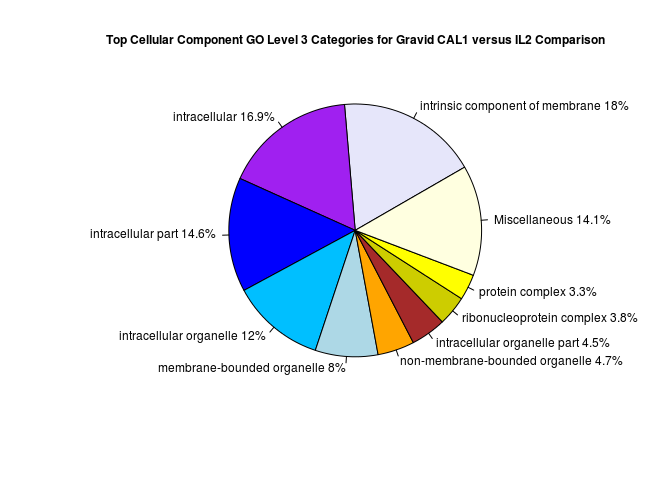
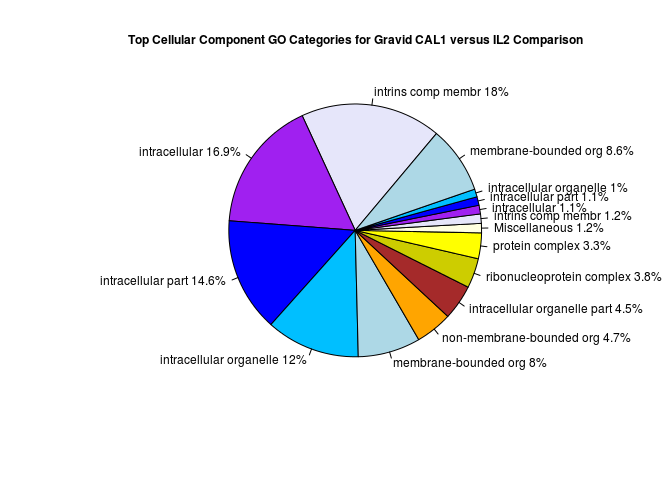
added a few extra terms to each pie chart

diff --git a/Culex_GO_Figs_09072018.md b/Culex_GO_Figs_09072018.md
@@ -11,35 +11,35 @@ Plots for Gene Ontology Classification.
 ``` r
 setwd("~/Desktop/CulexRNAseq")
 
-#Getting the top 9 MF categories
+#Getting the top 14 MF categories
 DGC_MF_grVpa <- read.table("./data/GO_level3Dist_data_analysis_09102018/gravidVparous/gravidVparous_GODist_level3_first3colsMF.txt", sep = "\t", header = T)
 DGC_MF_paVma <- read.table("./data/GO_level3Dist_data_analysis_09102018/parousVmales/parousVmales_GODist_level3_first3cols_MF.txt", sep = "\t", header = T)
 DGC_MF_paVpip <- read.table("./data/GO_level3Dist_data_analysis_09102018/parousVpipiens/parousVpipiens_GODist_level3_first3cols_MF.txt", sep = "\t", header = T)
 DGC_MF_grVpip <- read.table("./data/GO_level3Dist_data_analysis_09102018/gravidVpipiens/gravidVpipiens_GODist_level3_first3cols_MF.txt", sep = "\t", header = T)
 
-top_nine_MF <- list(DGC_MF_grVpa[c(1:9),3], DGC_MF_paVma[c(1:9),3], DGC_MF_paVpip[c(1:9),3], DGC_MF_grVpip[c(1:9),3])
+top_14_MF <- list(DGC_MF_grVpa[c(1:14),3], DGC_MF_paVma[c(1:14),3], DGC_MF_paVpip[c(1:14),3], DGC_MF_grVpip[c(1:14),3])
 
 tot_data_MF <- list(DGC_MF_grVpa[c(1:nrow(DGC_MF_grVpa)),3], DGC_MF_paVma[c(1:nrow(DGC_MF_paVma)),3], DGC_MF_paVpip[c(1:nrow(DGC_MF_paVpip)),3], DGC_MF_grVpip[c(1:nrow(DGC_MF_grVpip)),3])
 
 
-#Getting the top 9 BP categories
+#Getting the top 14 BP categories
 DGC_BP_grVpa <- read.table("./data/GO_level3Dist_data_analysis_09102018/gravidVparous/gravidVparous_GODist_level3_first3cols_BP.txt", sep = "\t", header = T)
 DGC_BP_paVma <- read.table("./data/GO_level3Dist_data_analysis_09102018/parousVmales/parousVmales_GODist_level3_first3cols_BP.txt", sep = "\t", header = T)
 DGC_BP_paVpip <- read.table("./data/GO_level3Dist_data_analysis_09102018/parousVpipiens/parousVpipiens_GODist_level3_first3cols_BP.txt", sep = "\t", header = T)
 DGC_BP_grVpip <- read.table("./data/GO_level3Dist_data_analysis_09102018/gravidVpipiens/gravidVpipiens_GODist_level3_first3cols_BP.txt", sep = "\t", header = T)
 
-top_nine_BP <- list(DGC_BP_grVpa[c(1:9),3], DGC_BP_paVma[c(1:9),3], DGC_BP_paVpip[c(1:9),3], DGC_BP_grVpip[c(1:9),3])
+top_14_BP <- list(DGC_BP_grVpa[c(1:14),3], DGC_BP_paVma[c(1:14),3], DGC_BP_paVpip[c(1:14),3], DGC_BP_grVpip[c(1:14),3])
 
 tot_data_BP <- list(DGC_BP_grVpa[c(1:nrow(DGC_BP_grVpa)),3], DGC_BP_paVma[c(1:nrow(DGC_BP_paVma)),3], DGC_BP_paVpip[c(1:nrow(DGC_BP_paVpip)),3], DGC_BP_grVpip[c(1:nrow(DGC_BP_grVpip)),3])
 
 
-#Getting the top 9 CC categories
+#Getting the top 14 CC categories
 DGC_CC_grVpa <- read.table("./data/GO_level3Dist_data_analysis_09102018/gravidVparous/gravidVparous_GODist_level3_first3cols_CC.txt", sep = "\t", header = T)
 DGC_CC_paVma <- read.table("./data/GO_level3Dist_data_analysis_09102018/parousVmales/parousVmales_GODist_level3_first3cols_CC.txt", sep = "\t", header = T)
 DGC_CC_paVpip <- read.table("./data/GO_level3Dist_data_analysis_09102018/parousVpipiens/parousVpipiens_GODist_level3_first3cols_CC.txt", sep = "\t", header = T)
 DGC_CC_grVpip <- read.table("./data/GO_level3Dist_data_analysis_09102018/gravidVpipiens/gravidVpipiens_GODist_level3_first3cols_CC.txt", sep = "\t", header = T)
 
-top_nine_CC <- list(DGC_CC_grVpa[c(1:9),3], DGC_CC_paVma[c(1:9),3], DGC_CC_paVpip[c(1:9),3], DGC_CC_grVpip[c(1:9),3])
+top_14_CC <- list(DGC_CC_grVpa[c(1:14),3], DGC_CC_paVma[c(1:14),3], DGC_CC_paVpip[c(1:14),3], DGC_CC_grVpip[c(1:14),3])
 
 tot_data_CC <- list(DGC_CC_grVpa[c(1:nrow(DGC_CC_grVpa)),3], DGC_CC_paVma[c(1:nrow(DGC_CC_paVma)),3], DGC_CC_paVpip[c(1:nrow(DGC_CC_paVpip)),3], DGC_CC_grVpip[c(1:nrow(DGC_CC_grVpip)),3])
 ```
@@ -48,10 +48,10 @@ tot_data_CC <- list(DGC_CC_grVpa[c(1:nrow(DGC_CC_grVpa)),3], DGC_CC_paVma[c(1:nr
 
 ``` r
 tot_MF <- lapply(tot_data_MF, sum)
-inv_misc_cat_MF <- lapply(top_nine_MF, sum)
+inv_misc_cat_MF <- lapply(top_14_MF, sum)
 misc_cat_MF <- (unlist(tot_MF)) - (unlist(inv_misc_cat_MF))
 
-data2_MF <- as.data.frame(top_nine_MF, col.names = c("DGC_MF_grVpa", "DGC_MF_paVma", "DGC_MF_paVpip", "DGC_MF_grVpip"))
+data2_MF <- as.data.frame(top_14_MF, col.names = c("DGC_MF_grVpa", "DGC_MF_paVma", "DGC_MF_paVpip", "DGC_MF_grVpip"))
 
 Updata_MF <- rbind(data2_MF, misc_cat_MF)
 
@@ -63,10 +63,10 @@ Rounded_Percentages_MF <- round(Percentages_MF, 1)
 
 ``` r
 tot_BP <- lapply(tot_data_BP, sum)
-inv_misc_cat_BP <- lapply(top_nine_BP, sum)
+inv_misc_cat_BP <- lapply(top_14_BP, sum)
 misc_cat_BP <- (unlist(tot_BP)) - (unlist(inv_misc_cat_BP))
 
-data2_BP <- as.data.frame(top_nine_BP, col.names = c("DGC_BP_grVpa", "DGC_BP_paVma", "DGC_BP_paVpip", "DGC_BP_grVpip"))
+data2_BP <- as.data.frame(top_14_BP, col.names = c("DGC_BP_grVpa", "DGC_BP_paVma", "DGC_BP_paVpip", "DGC_BP_grVpip"))
 
 Updata_BP <- rbind(data2_BP, misc_cat_BP)
 
@@ -78,10 +78,10 @@ Rounded_Percentages_BP <- round(Percentages_BP, 1)
 
 ``` r
 tot_CC <- lapply(tot_data_CC, sum)
-inv_misc_cat_CC <- lapply(top_nine_CC, sum)
+inv_misc_cat_CC <- lapply(top_14_CC, sum)
 misc_cat_CC <- (unlist(tot_CC)) - (unlist(inv_misc_cat_CC))
 
-data2_CC <- as.data.frame(top_nine_CC, col.names = c("DGC_CC_grVpa", "DGC_CC_paVma", "DGC_CC_paVpip", "DGC_CC_grVpip"))
+data2_CC <- as.data.frame(top_14_CC, col.names = c("DGC_CC_grVpa", "DGC_CC_paVma", "DGC_CC_paVpip", "DGC_CC_grVpip"))
 
 Updata_CC <- rbind(data2_CC, misc_cat_CC)
 
@@ -97,44 +97,56 @@ Rounded_Percentages_CC <- round(Percentages_CC, 1)
 
 ###### "serine-type endopeptidase activity", "ser-type endopep act"
 
+###### "guanyl-nucleotide exchange factor" = "guan-nuc ex factor"
+
+###### "substrate-specific transporter activity" = "sub-spec transport act"
+
 ``` r
-lbls <- c(as.character(DGC_MF_grVpa[c(1:9),2]), "Miscellaneous")
+lbls <- c(as.character(DGC_MF_grVpa[c(1:14),2]), "Miscellaneous")
 lbls <- gsub("structural constituent of ribosome", "struc const ribosome", lbls)
+lbls <- gsub("guanyl-nucleotide exchange factor", "guan-nuc ex factor", lbls)
+lbls <- gsub("substrate-specific transporter activity", "sub-spec transport act", lbls)
 lbls <- paste(lbls, Rounded_Percentages_MF$DGC_MF_grVpa) # add percents to labels
 lbls <- paste(lbls,"%",sep="") # ad % to labels 
-grVpa_pie_MF <- pie(Rounded_Percentages_MF$DGC_MF_grVpa, labels =lbls, main = "Top Molecular Function GO Level 3 Categories for Gravid CAL1 versus Parous CAL1 Comparison", radius = 0.9, col = rainbow(length(lbls)), cex = 0.75, cex.main = 0.75, tck=.2, init.angle = 30)
+grVpa_pie_MF <- pie(Rounded_Percentages_MF$DGC_MF_grVpa, labels =lbls, main = "Top Molecular Function GO Categories for Gravid CAL1 versus Parous CAL1 Comparison", radius = 0.9, col = rainbow(length(lbls)), cex = 0.75, cex.main = 0.75, tck=.2, init.angle = 30)
 ```
 
 ![](Culex_GO_Figs_09072018_files/figure-markdown_github/MF%20GO%20Figs-1.png)
 
 ``` r
-lbls <- c(as.character(DGC_MF_paVma[c(1:9),2]), "Miscellaneous")
+lbls <- c(as.character(DGC_MF_paVma[c(1:14),2]), "Miscellaneous")
 lbls <- gsub("structural constituent of ribosome", "struc const ribosome", lbls)
+lbls <- gsub("guanyl-nucleotide exchange factor", "guan-nuc ex factor", lbls)
+lbls <- gsub("substrate-specific transporter activity", "sub-spec transport act", lbls)
 lbls <- paste(lbls, Rounded_Percentages_MF$DGC_MF_paVma) 
 lbls <- paste(lbls,"%",sep="") 
-paVma_pie_MF <- pie(Rounded_Percentages_MF$DGC_MF_paVma, labels =lbls, main = "Top Molecular Function GO Level 3 Categories for Parous CAL1 versus Male CAL1 Comparison", radius = 0.9, col = rainbow(length(lbls)), cex = 0.75, cex.main = 0.75, tck=.2, init.angle = 30)
+paVma_pie_MF <- pie(Rounded_Percentages_MF$DGC_MF_paVma, labels =lbls, main = "Top Molecular Function GO Categories for Parous CAL1 versus Male CAL1 Comparison", radius = 0.9, col = rainbow(length(lbls)), cex = 0.75, cex.main = 0.75, tck=.2, init.angle = 30)
 ```
 
 ![](Culex_GO_Figs_09072018_files/figure-markdown_github/MF%20GO%20Figs-2.png)
 
 ``` r
-lbls <- c(as.character(DGC_MF_paVpip[c(1:9),2]), "Miscellaneous")
+lbls <- c(as.character(DGC_MF_paVpip[c(1:14),2]), "Miscellaneous")
 lbls <- gsub("structural constituent of ribosome", "struc const ribosome", lbls)
 lbls <- gsub("serine-type endopeptidase activity", "ser-type endopep act", lbls)
+lbls <- gsub("guanyl-nucleotide exchange factor", "guan-nuc ex factor", lbls)
+lbls <- gsub("substrate-specific transporter activity", "sub-spec transport act", lbls)
 lbls <- paste(lbls, Rounded_Percentages_MF$DGC_MF_paVpip) 
 lbls <- paste(lbls,"%",sep="") 
-paVpip_pie_MF <- pie(Rounded_Percentages_MF$DGC_MF_paVpip, labels =lbls, main = "Top Molecular Function GO Level 3 Categories for Parous CAL1 versus IL2 Comparison", radius = 0.9, col = rainbow(length(lbls)), cex = 0.75, cex.main = 0.75, tck=.2, init.angle = 30)
+paVpip_pie_MF <- pie(Rounded_Percentages_MF$DGC_MF_paVpip, labels =lbls, main = "Top Molecular Function GO Categories for Parous CAL1 versus IL2 Comparison", radius = 0.9, col = rainbow(length(lbls)), cex = 0.75, cex.main = 0.75, tck=.2, init.angle = 30)
 ```
 
 ![](Culex_GO_Figs_09072018_files/figure-markdown_github/MF%20GO%20Figs-3.png)
 
 ``` r
-lbls <- c(as.character(DGC_MF_grVpip[c(1:9),2]), "Miscellaneous")
+lbls <- c(as.character(DGC_MF_grVpip[c(1:14),2]), "Miscellaneous")
 lbls <- gsub("structural constituent of ribosome", "struc const ribosome", lbls)
 lbls <- gsub("serine-type endopeptidase activity", "ser-type endopep act", lbls)
+lbls <- gsub("guanyl-nucleotide exchange factor", "guan-nuc ex factor", lbls)
+lbls <- gsub("substrate-specific transporter activity", "sub-spec transport act", lbls)
 lbls <- paste(lbls, Rounded_Percentages_MF$DGC_MF_grVpip) 
 lbls <- paste(lbls,"%",sep="") 
-grVpip_pie_MF <- pie(Rounded_Percentages_MF$DGC_MF_grVpip, labels =lbls, main = "Top Molecular Function GO Level 3 Categories for Gravid CAL1 versus IL2 Comparison", radius = 0.9, col = rainbow(length(lbls)), cex = 0.75, cex.main = 0.75, tck=.2, init.angle = 30)
+grVpip_pie_MF <- pie(Rounded_Percentages_MF$DGC_MF_grVpip, labels =lbls, main = "Top Molecular Function GO Categories for Gravid CAL1 versus IL2 Comparison", radius = 0.9, col = rainbow(length(lbls)), cex = 0.75, cex.main = 0.75, tck=.2, init.angle = 30)
 ```
 
 ![](Culex_GO_Figs_09072018_files/figure-markdown_github/MF%20GO%20Figs-4.png)
@@ -147,45 +159,57 @@ grVpip_pie_MF <- pie(Rounded_Percentages_MF$DGC_MF_grVpip, labels =lbls, main = 
 
 ###### "carbohydrate metabolic process" = "carb metabol proc"
 
+###### "establishment of localization" = "establish localization"
+
+###### "single-organism cellular process" = "single-org cell process"
+
 ``` r
-lbls <- c(as.character(DGC_BP_grVpa[c(1:9),2]), "Miscellaneous")
+lbls <- c(as.character(DGC_BP_grVpa[c(1:14),2]), "Miscellaneous")
 lbls <- gsub("regulation of transcription, DNA-templated", "reg transcript, DNA-temp", lbls)
+lbls <- gsub("establishment of localization", "establish localization", lbls)
+lbls <- gsub("single-organism cellular process", "single-org cell process", lbls)
 lbls <- paste(lbls, Rounded_Percentages_BP$DGC_BP_grVpa) # add percents to labels
 lbls <- paste(lbls,"%",sep="") # ad % to labels 
-grVpa_pie_BP <- pie(Rounded_Percentages_BP$DGC_BP_grVpa, labels =lbls, main = "Top Biological Process GO Level 3 Categories for Gravid CAL1 versus Parous CAL1 Comparison", radius = 0.9, cex = 0.75, cex.main = 0.75, tck=.2, init.angle = 30)
+grVpa_pie_BP <- pie(Rounded_Percentages_BP$DGC_BP_grVpa, labels =lbls, main = "Top Biological Process GO Categories for Gravid CAL1 versus Parous CAL1 Comparison", radius = 0.9, cex = 0.75, cex.main = 0.75, tck=.2, init.angle = 120)
 ```
 
 ![](Culex_GO_Figs_09072018_files/figure-markdown_github/BP%20GO%20Figs-1.png)
 
 ``` r
-lbls <- c(as.character(DGC_BP_paVma[c(1:9),2]), "Miscellaneous")
+lbls <- c(as.character(DGC_BP_paVma[c(1:14),2]), "Miscellaneous")
 lbls <- gsub("regulation of transcription, DNA-templated", "reg transcript, DNA-temp", lbls)
 lbls <- gsub("carbohydrate metabolic process", "carb metabol proc", lbls)
+lbls <- gsub("establishment of localization", "establish localization", lbls)
+lbls <- gsub("single-organism cellular process", "single-org cell process", lbls)
 lbls <- paste(lbls, Rounded_Percentages_BP$DGC_BP_paVma) 
 lbls <- paste(lbls,"%",sep="") 
-paVma_pie_BP <- pie(Rounded_Percentages_BP$DGC_BP_paVma, labels =lbls, main = "Top Biological Process GO Level 3 Categories for Parous CAL1 versus Male CAL1 Comparison", radius = 0.9, cex = 0.75, cex.main = 0.75, tck=.2, init.angle = 30)
+paVma_pie_BP <- pie(Rounded_Percentages_BP$DGC_BP_paVma, labels =lbls, main = "Top Biological Process GO Categories for Parous CAL1 versus Male CAL1 Comparison", radius = 0.9, cex = 0.75, cex.main = 0.75, tck=.2, init.angle = 120)
 ```
 
 ![](Culex_GO_Figs_09072018_files/figure-markdown_github/BP%20GO%20Figs-2.png)
 
 ``` r
-lbls <- c(as.character(DGC_BP_paVpip[c(1:9),2]), "Miscellaneous")
+lbls <- c(as.character(DGC_BP_paVpip[c(1:14),2]), "Miscellaneous")
 lbls <- gsub("regulation of transcription, DNA-templated", "reg transcript, DNA-temp", lbls)
 lbls <- gsub("carbohydrate metabolic process", "carb metabol proc", lbls)
+lbls <- gsub("establishment of localization", "establish localization", lbls)
+lbls <- gsub("single-organism cellular process", "single-org cell process", lbls)
 lbls <- paste(lbls, Rounded_Percentages_BP$DGC_BP_paVpip) 
 lbls <- paste(lbls,"%",sep="") 
-paVpip_pie_BP <- pie(Rounded_Percentages_BP$DGC_BP_paVpip, labels =lbls, main = "Top Biological Process GO Level 3 Categories for Parous CAL1 versus IL2 Comparison", radius = 0.9,  cex = 0.75, cex.main = 0.75, tck=.2, init.angle = 30)
+paVpip_pie_BP <- pie(Rounded_Percentages_BP$DGC_BP_paVpip, labels =lbls, main = "Top Biological Process GO Categories for Parous CAL1 versus IL2 Comparison", radius = 0.9,  cex = 0.75, cex.main = 0.75, tck=.2, init.angle = 120)
 ```
 
 ![](Culex_GO_Figs_09072018_files/figure-markdown_github/BP%20GO%20Figs-3.png)
 
 ``` r
-lbls <- c(as.character(DGC_BP_grVpip[c(1:9),2]), "Miscellaneous")
+lbls <- c(as.character(DGC_BP_grVpip[c(1:14),2]), "Miscellaneous")
 lbls <- gsub("regulation of transcription, DNA-templated", "reg transcript, DNA-temp", lbls)
 lbls <- gsub("carbohydrate metabolic process", "carb metabol proc", lbls)
+lbls <- gsub("establishment of localization", "establish localization", lbls)
+lbls <- gsub("single-organism cellular process", "single-org cell process", lbls)
 lbls <- paste(lbls, Rounded_Percentages_BP$DGC_BP_grVpip) 
 lbls <- paste(lbls,"%",sep="") 
-grVpip_pie_BP <- pie(Rounded_Percentages_BP$DGC_BP_grVpip, labels =lbls, main = "Top Biological Process GO Level 3 Categories for Gravid CAL1 versus IL2 Comparison", radius = 0.9, cex = 0.75, cex.main = 0.75, tck=.2, init.angle = 30)
+grVpip_pie_BP <- pie(Rounded_Percentages_BP$DGC_BP_grVpip, labels =lbls, main = "Top Biological Process GO Categories for Gravid CAL1 versus IL2 Comparison", radius = 0.9, cex = 0.75, cex.main = 0.75, tck=.2, init.angle = 120)
 ```
 
 ![](Culex_GO_Figs_09072018_files/figure-markdown_github/BP%20GO%20Figs-4.png)
@@ -198,14 +222,23 @@ grVpip_pie_BP <- pie(Rounded_Percentages_BP$DGC_BP_grVpip, labels =lbls, main = 
 
 ###### "carbohydrate metabolic process" = "carb metabol proc"
 
+###### "membrane-bounded organelle" = "membrane-bounded org"
+
+###### "non-membrane-bounded organelle" = "non-membrane-bounded org"
+
+###### "intrinsic component of membrane" = "intrins comp membr"
+
 ``` r
 col_schema <- c("lavender", "purple", "blue", "deepskyblue", "lightblue", "orange", "brown", "yellow3", "yellow", "lightyellow")
 
 lbls <- c(as.character(DGC_CC_grVpa[c(1:9),2]), "Miscellaneous")
 lbls <- gsub("regulation of transcription, DNA-templated", "reg transcript, DNA-temp", lbls)
+lbls <- gsub("membrane-bounded organelle", "membrane-bounded org", lbls)
+lbls <- gsub("non-membrane-bounded organelle", "non-membrane-bounded org", lbls)
+lbls <- gsub("intrinsic component of membrane", "intrins comp membr", lbls)
 lbls <- paste(lbls, Rounded_Percentages_CC$DGC_CC_grVpa) # add percents to labels
 lbls <- paste(lbls,"%",sep="") # ad % to labels 
-grVpa_pie_CC <- pie(Rounded_Percentages_CC$DGC_CC_grVpa, labels =lbls, main = "Top Cellular Component GO Level 3 Categories for Gravid CAL1 versus Parous CAL1 Comparison", radius = 0.9, cex = 0.75, cex.main = 0.75, tck=.2, init.angle = 20, col= col_schema)
+grVpa_pie_CC <- pie(Rounded_Percentages_CC$DGC_CC_grVpa, labels =lbls, main = "Top Cellular Component GO Categories for Gravid CAL1 versus Parous CAL1 Comparison", radius = 0.9, cex = 0.75, cex.main = 0.75, tck=.2, init.angle = 35, col= col_schema)
 ```
 
 ![](Culex_GO_Figs_09072018_files/figure-markdown_github/CC%20GO%20Figs-1.png)
@@ -213,10 +246,13 @@ grVpa_pie_CC <- pie(Rounded_Percentages_CC$DGC_CC_grVpa, labels =lbls, main = "T
 ``` r
 lbls <- c(as.character(DGC_CC_paVma[c(1:9),2]), "Miscellaneous")
 lbls <- gsub("regulation of transcription, DNA-templated", "reg transcript, DNA-temp", lbls)
+lbls <- gsub("membrane-bounded organelle", "membrane-bounded org", lbls)
+lbls <- gsub("non-membrane-bounded organelle", "non-membrane-bounded org", lbls)
 lbls <- gsub("carbohydrate metabolic process", "carb metabol proc", lbls)
+lbls <- gsub("intrinsic component of membrane", "intrins comp membr", lbls)
 lbls <- paste(lbls, Rounded_Percentages_CC$DGC_CC_paVma) 
 lbls <- paste(lbls,"%",sep="") 
-paVma_pie_CC <- pie(Rounded_Percentages_CC$DGC_CC_paVma, labels =lbls, main = "Top Cellular Component GO Level 3 Categories for Parous CAL1 versus Male CAL1 Comparison", radius = 0.9, cex = 0.75, cex.main = 0.75, tck=.2, init.angle = 20, col= col_schema)
+paVma_pie_CC <- pie(Rounded_Percentages_CC$DGC_CC_paVma, labels =lbls, main = "Top Cellular Component GO Categories for Parous CAL1 versus Male CAL1 Comparison", radius = 0.9, cex = 0.75, cex.main = 0.75, tck=.2, init.angle = 60, col= col_schema)
 ```
 
 ![](Culex_GO_Figs_09072018_files/figure-markdown_github/CC%20GO%20Figs-2.png)
@@ -224,10 +260,13 @@ paVma_pie_CC <- pie(Rounded_Percentages_CC$DGC_CC_paVma, labels =lbls, main = "T
 ``` r
 lbls <- c(as.character(DGC_CC_paVpip[c(1:9),2]), "Miscellaneous")
 lbls <- gsub("regulation of transcription, DNA-templated", "reg transcript, DNA-temp", lbls)
+lbls <- gsub("membrane-bounded organelle", "membrane-bounded org", lbls)
+lbls <- gsub("non-membrane-bounded organelle", "non-membrane-bounded org", lbls)
 lbls <- gsub("carbohydrate metabolic process", "carb metabol proc", lbls)
+lbls <- gsub("intrinsic component of membrane", "intrins comp membr", lbls)
 lbls <- paste(lbls, Rounded_Percentages_CC$DGC_CC_paVpip) 
 lbls <- paste(lbls,"%",sep="") 
-paVpip_pie_CC <- pie(Rounded_Percentages_CC$DGC_CC_paVpip, labels =lbls, main = "Top Cellular Component GO Level 3 Categories for Parous CAL1 versus IL2 Comparison", radius = 0.9,  cex = 0.75, cex.main = 0.75, tck=.2, init.angle = 30, col= col_schema)
+paVpip_pie_CC <- pie(Rounded_Percentages_CC$DGC_CC_paVpip, labels =lbls, main = "Top Cellular Component GO Categories for Parous CAL1 versus IL2 Comparison", radius = 0.9,  cex = 0.75, cex.main = 0.75, tck=.2, init.angle = 50, col= col_schema)
 ```
 
 ![](Culex_GO_Figs_09072018_files/figure-markdown_github/CC%20GO%20Figs-3.png)
@@ -235,10 +274,13 @@ paVpip_pie_CC <- pie(Rounded_Percentages_CC$DGC_CC_paVpip, labels =lbls, main = 
 ``` r
 lbls <- c(as.character(DGC_CC_grVpip[c(1:9),2]), "Miscellaneous")
 lbls <- gsub("regulation of transcription, DNA-templated", "reg transcript, DNA-temp", lbls)
+lbls <- gsub("membrane-bounded organelle", "membrane-bounded org", lbls)
+lbls <- gsub("non-membrane-bounded organelle", "non-membrane-bounded org", lbls)
 lbls <- gsub("carbohydrate metabolic process", "carb metabol proc", lbls)
+lbls <- gsub("intrinsic component of membrane", "intrins comp membr", lbls)
 lbls <- paste(lbls, Rounded_Percentages_CC$DGC_CC_grVpip) 
 lbls <- paste(lbls,"%",sep="") 
-grVpip_pie_CC <- pie(Rounded_Percentages_CC$DGC_CC_grVpip, labels =lbls, main = "Top Cellular Component GO Level 3 Categories for Gravid CAL1 versus IL2 Comparison", radius = 0.9, cex = 0.75, cex.main = 0.75, tck=.2, init.angle = 30, col= col_schema)
+grVpip_pie_CC <- pie(Rounded_Percentages_CC$DGC_CC_grVpip, labels =lbls, main = "Top Cellular Component GO Categories for Gravid CAL1 versus IL2 Comparison", radius = 0.9, cex = 0.75, cex.main = 0.75, tck=.2, init.angle = 50, col= col_schema)
 ```
 
 ![](Culex_GO_Figs_09072018_files/figure-markdown_github/CC%20GO%20Figs-4.png)
